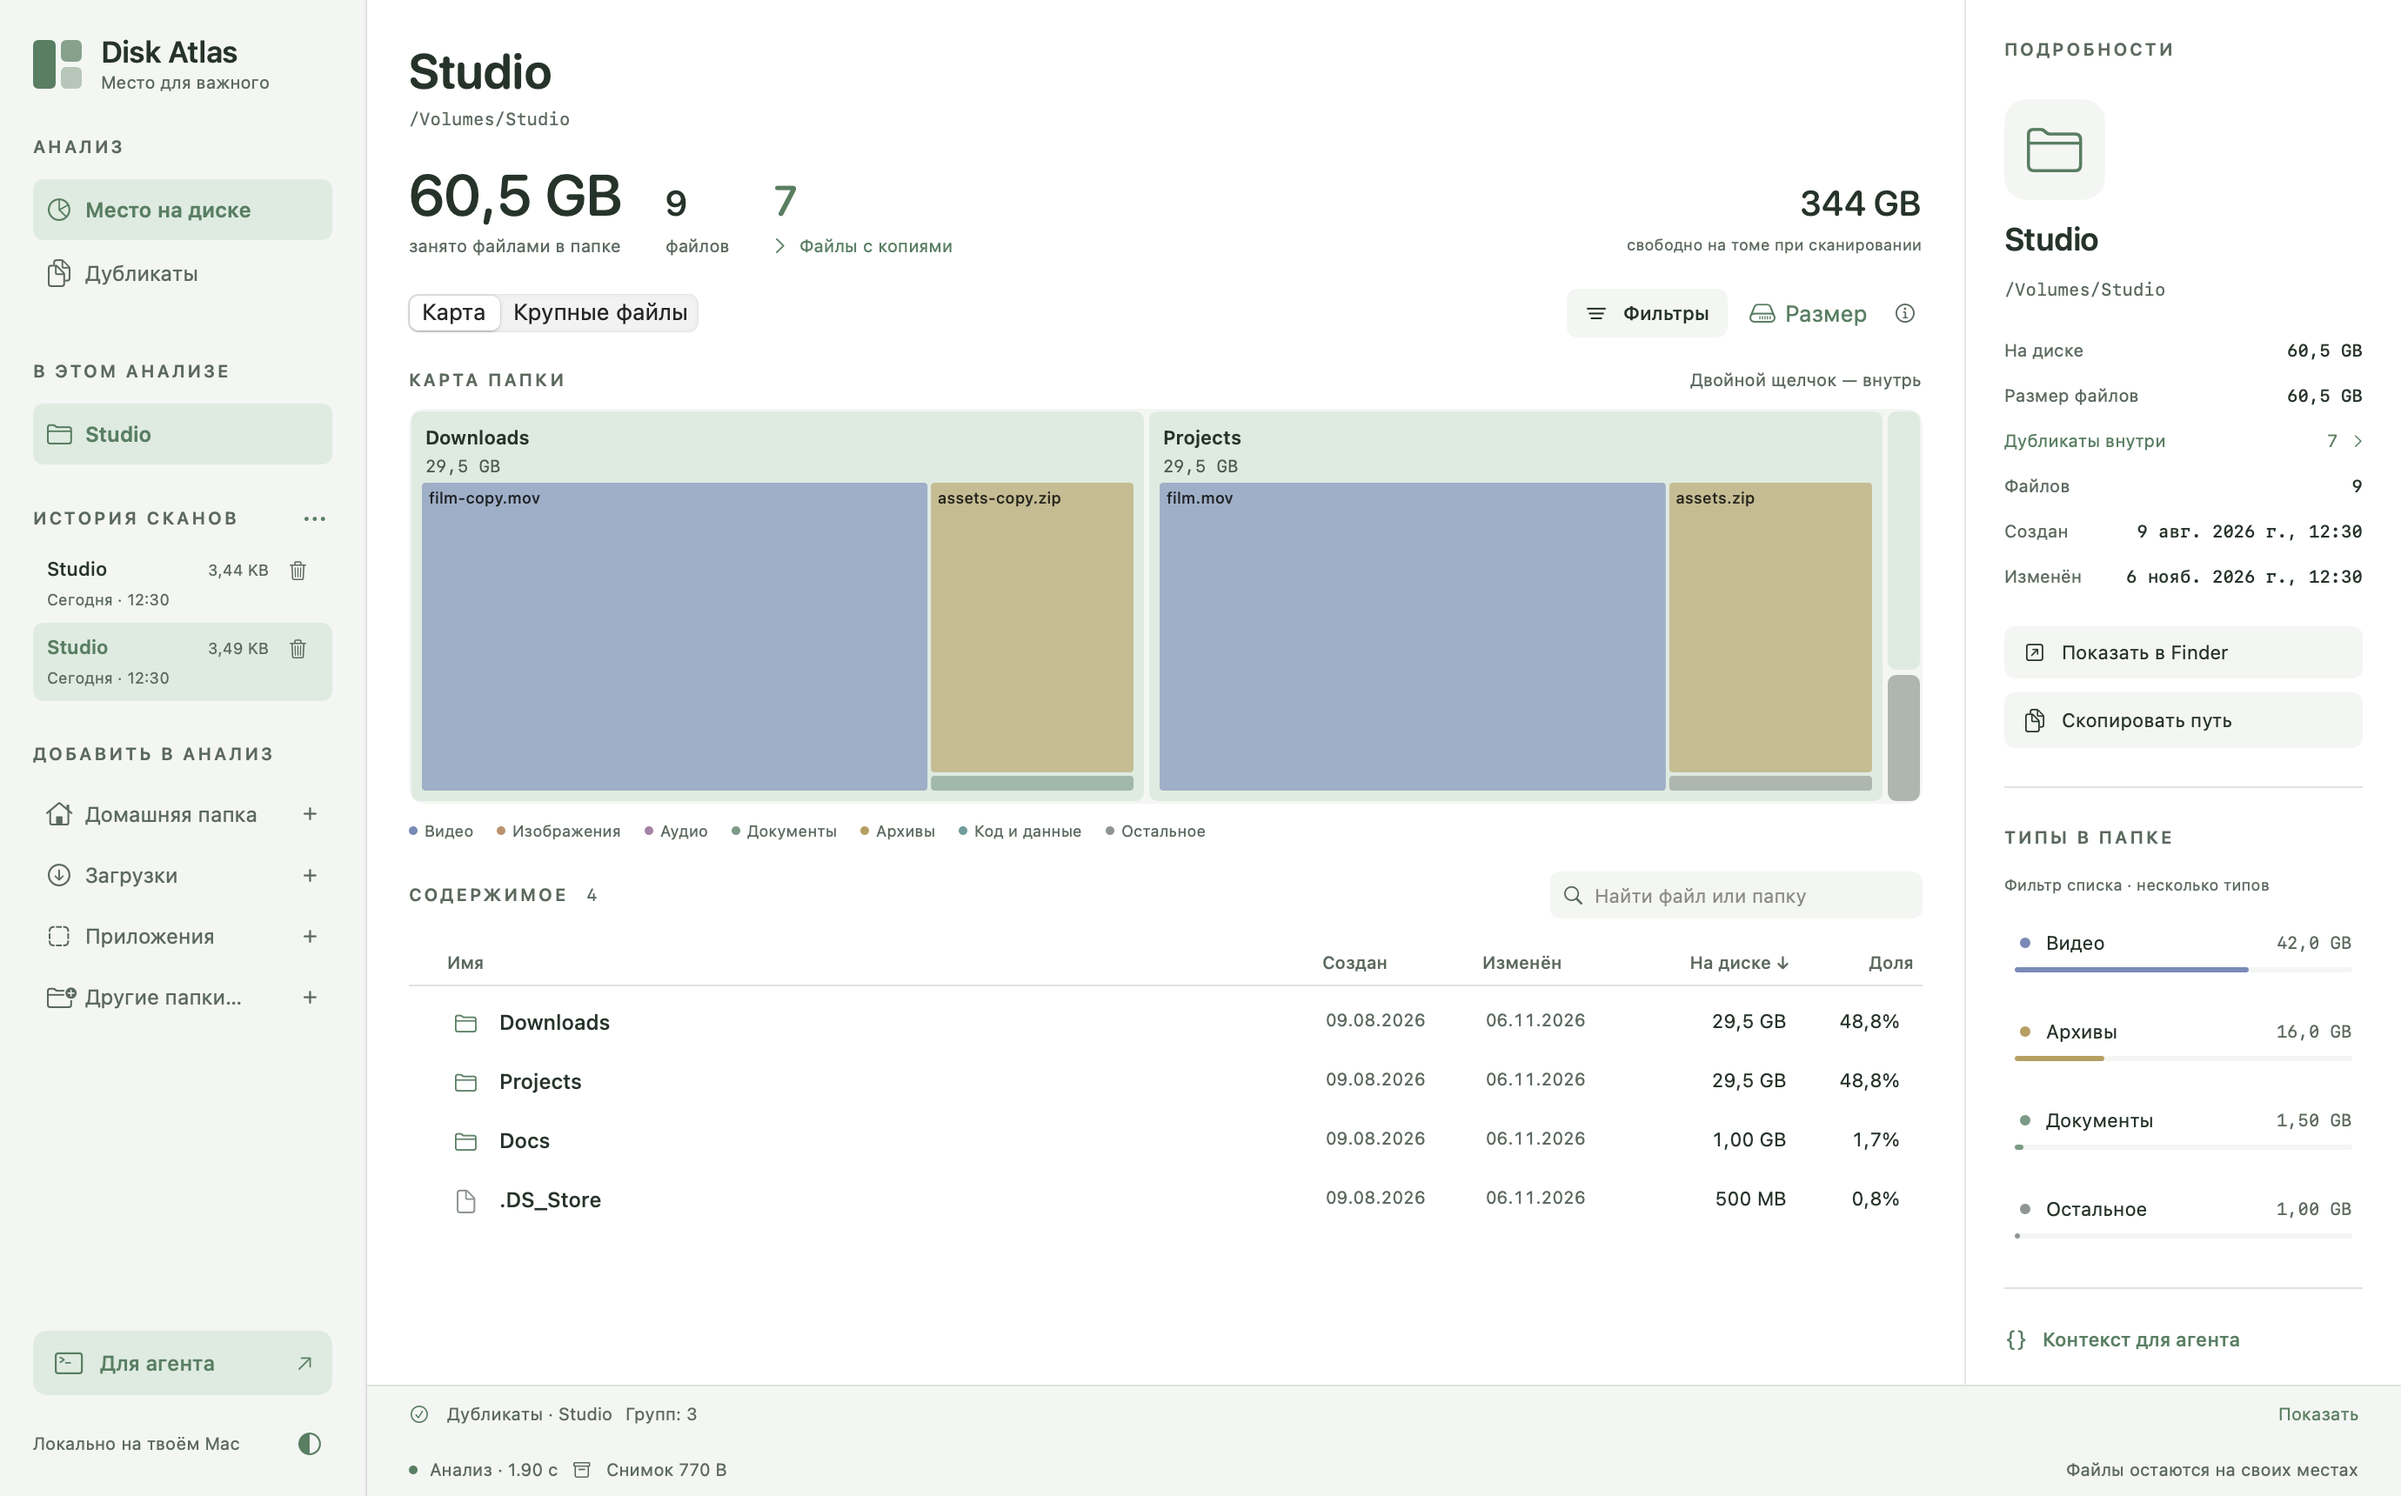
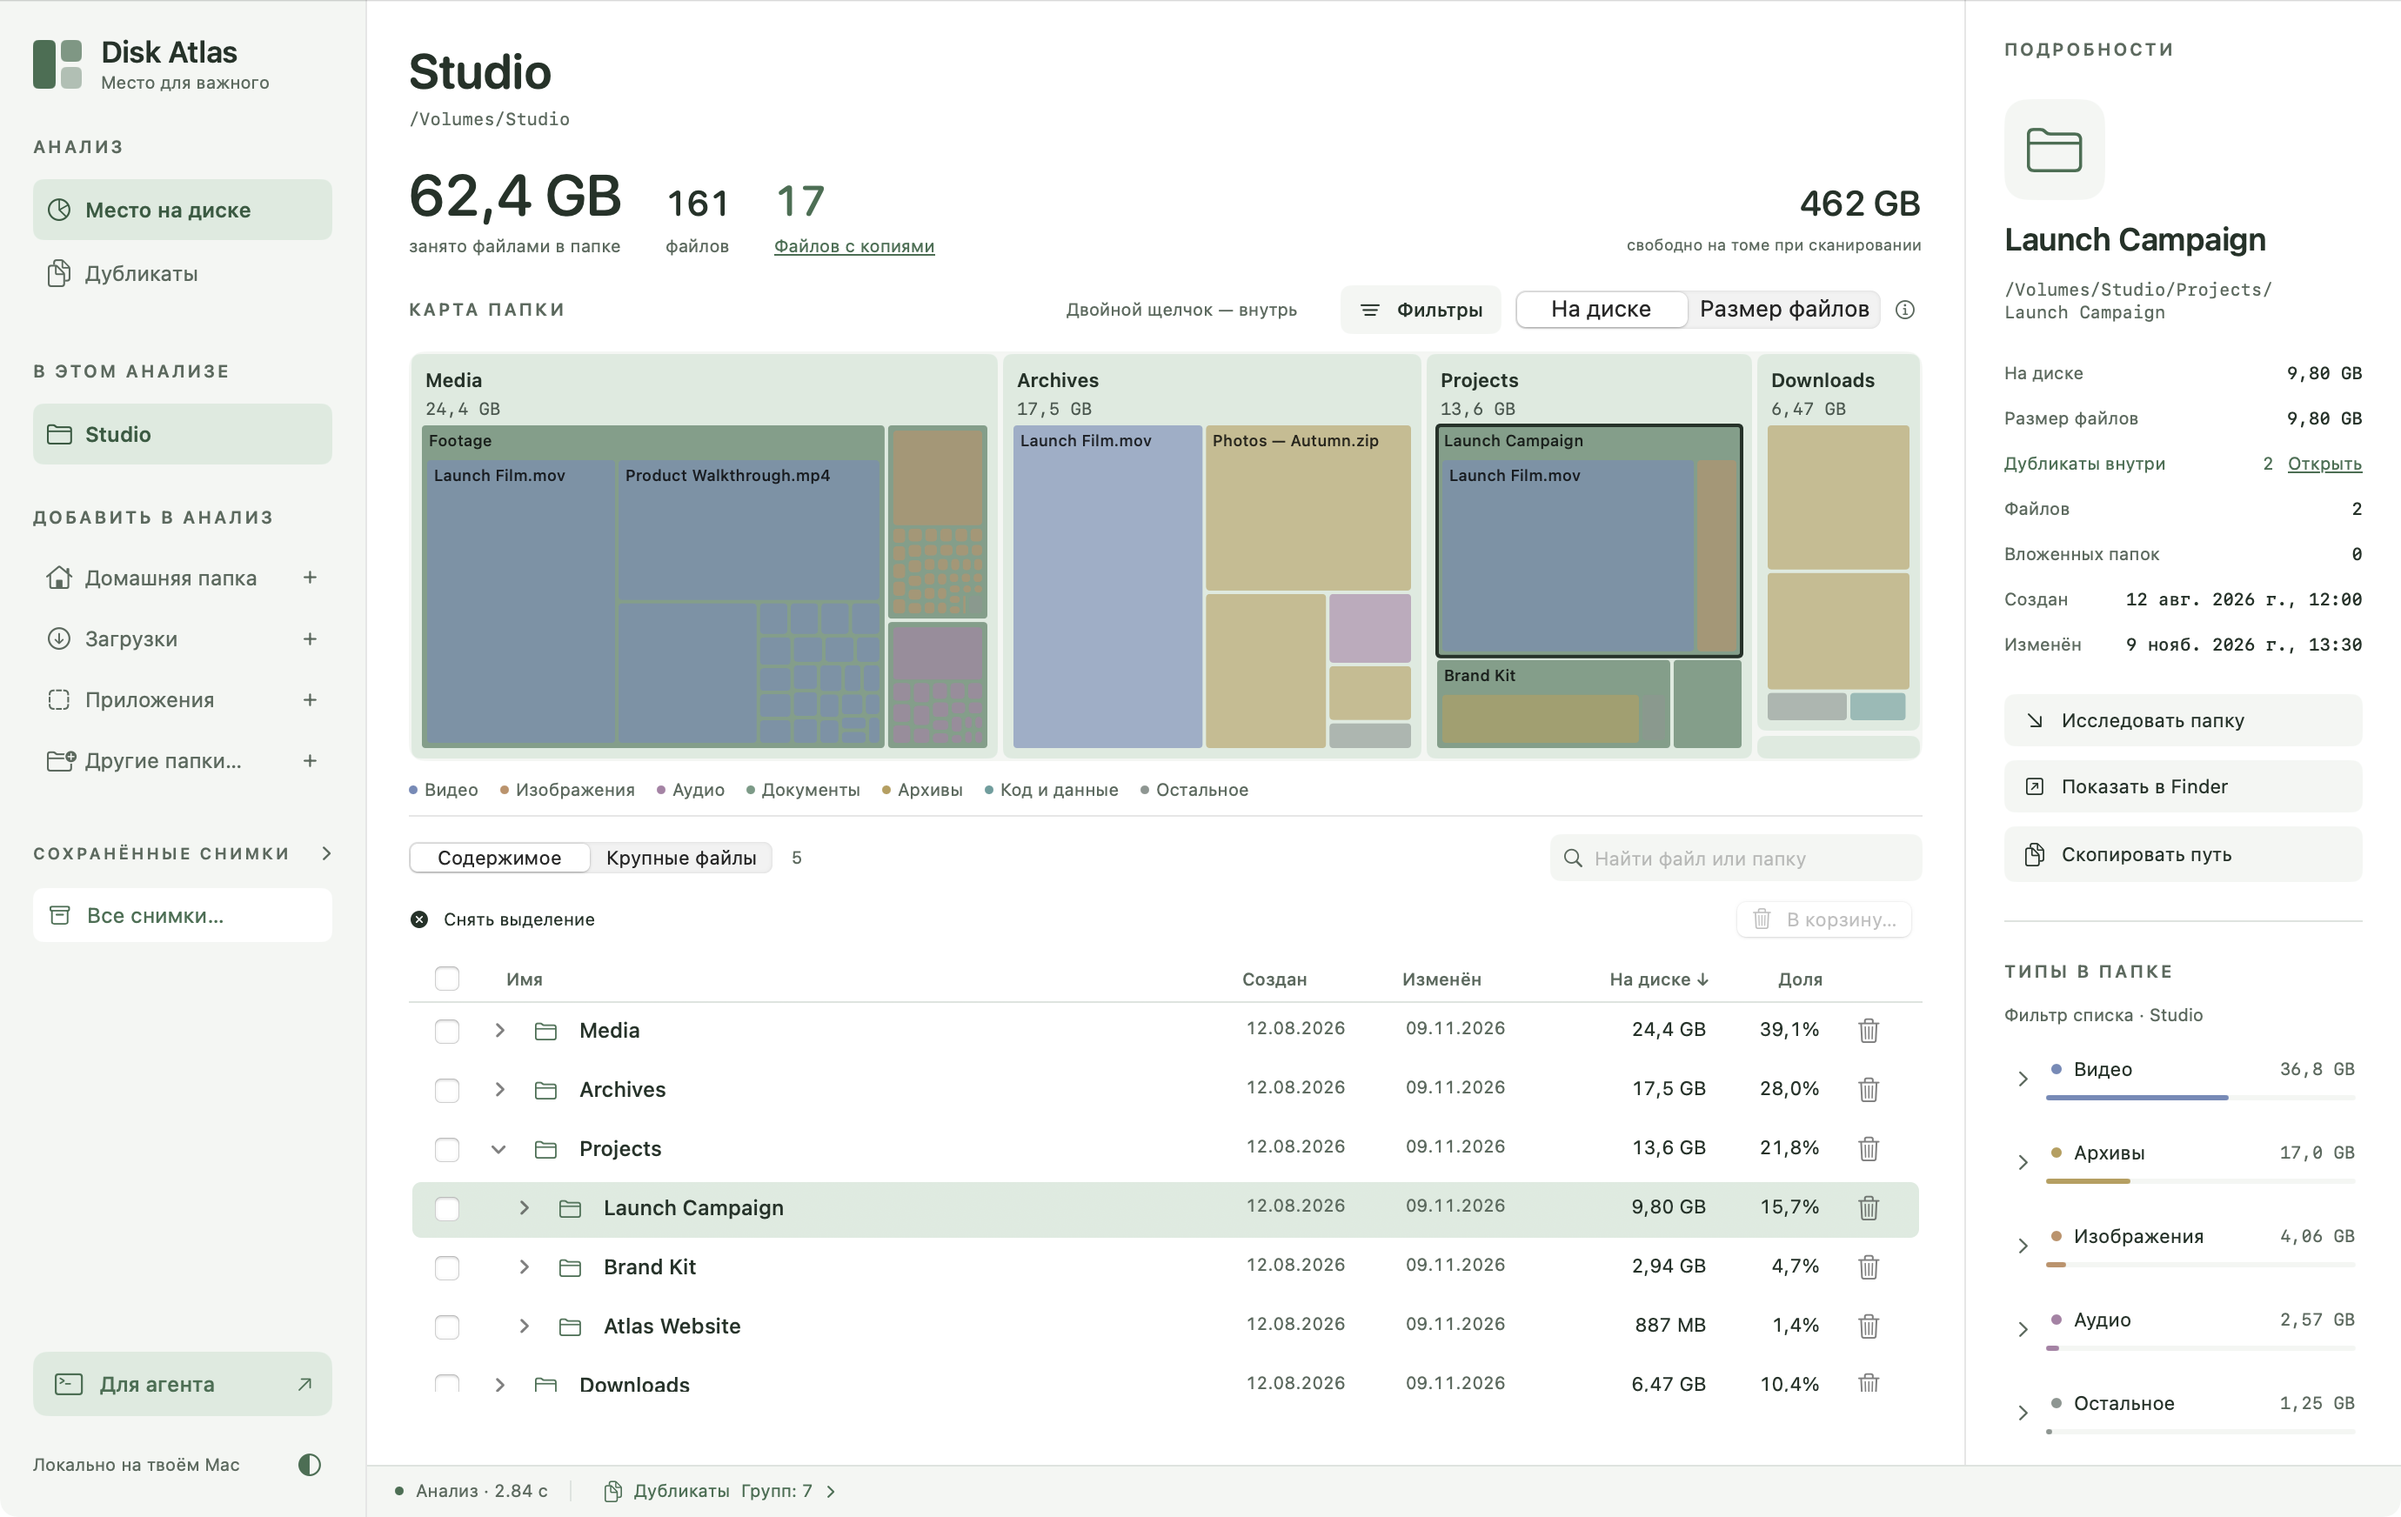
Refresh screenshots for the current Disk Atlas interface

diff --git a/README.ru.md b/README.ru.md
@@ -22,7 +22,7 @@ created: "2026-11-07"
 локальная история и перенос в Корзину с проверкой списка. Это самостоятельный
 проект, а не официальный порт WinDirStat.
 
-![Disk Atlas в светлой теме: карта пространства, компактная история и даты файлов](docs/images/workspace-light-ru.png)
+![Disk Atlas в светлой теме: карта папки, раскрываемое дерево файлов и сведения о выбранной папке](docs/images/workspace-light-ru.png)
 
 *Интерфейс показан на вымышленных данных. Твои файлы остаются на Mac.*
 
@@ -74,6 +74,7 @@ Maksim Popkov (59Z5886M52)**, нотарифицированы Apple; билет
 shasum -a 256 -c SHA256SUMS.txt
 ```
 
+![Стартовый экран: ёмкость диска, выбор папок и последние сохранённые снимки](docs/images/start-ru.png)
 
 ## Спокойный, понятный сценарий
 
@@ -186,7 +187,7 @@ shasum -a 256 -c SHA256SUMS.txt
 параметров сохраняет готовый отчёт. Он открывается вместе с историей, фильтры
 его не заменяют. Подчёркнутая метрика **«Файлов с копиями»** в обзоре открывает дубликаты.
 
-![Компактные группы дубликатов с расположением, числом копий и раскрытием файлов](docs/images/duplicates-ru.png)
+![Группы дубликатов с раскрытыми копиями, явным выбором и общим объёмом выбранного](docs/images/duplicates-ru.png)
 
 Разные размеры не сравниваются. Сначала проверяются первые и последние 64 КиБ.
 Если осталось ровно два больших файла, они сразу сравниваются побайтно, без
@@ -273,6 +274,8 @@ disk-atlas history inspect latest --files --limit 20 --json
 Нажатие на весь заголовок раскрывает или сворачивает список. В окне снимков
 клик по строке только выделяет её; кнопка «Открыть» восстанавливает снимок
 без повторного сканирования.
+
+<img src="docs/images/history-ru.png" width="760" alt="Сохранённые снимки с отдельным весом снимка и отчёта о дубликатах">
 
 История хранится в `~/Library/Application Support/Disk Atlas/History`, сжатая LZFSE; отчёты дубликатов — отдельные JSON с метаданными.
 Каталог имеет права 0700, файлы — 0600. Автоматического удаления старой истории пока

diff --git a/README.md b/README.md
@@ -22,7 +22,7 @@ If you use WinDirStat on Windows or are exploring alternatives to [DaisyDisk](ht
 local scan history and explicit, reviewed Move to Trash actions. It is an
 independent project, not an official WinDirStat port.
 
-![Disk Atlas in dark mode, showing a storage map, compact scan history and file dates](docs/images/workspace-dark.png)
+![Disk Atlas in dark mode: folder map, expandable file tree and selected-folder details](docs/images/workspace-dark.png)
 
 *Native interface preview with illustrative data. Your files stay on your Mac.*
 
@@ -75,7 +75,7 @@ Optional integrity check, with both downloaded artifacts beside the checksum fil
 shasum -a 256 -c SHA256SUMS.txt
 ```
 
-![Folder selection with visible recent scans and snapshot sizes](docs/images/start-en.png)
+![Start screen with disk capacity, folder selection and recent saved snapshots](docs/images/start-en.png)
 
 ## A quiet, deliberate workflow
 
@@ -181,7 +181,7 @@ review an estimate, then explicitly start content comparison. Cancelling its
 options leaves the saved report intact. Reports reopen with history; filters do
 not replace them. The overview’s underlined **Files with copies** metric opens duplicates.
 
-![Compact duplicate groups with locations, copy counts and expandable files](docs/images/duplicates-en.png)
+![Duplicate groups with expanded copies, explicit selection and its total size](docs/images/duplicates-en.png)
 
 Different sizes are never compared. The checker samples the first and last 64 KiB.
 For exactly two surviving large files it goes straight to byte comparison,
@@ -265,6 +265,8 @@ In the sidebar, Add to scan comes first; Saved snapshots starts collapsed, with 
 explicit All snapshots button. Expanding it shows snapshot weights and delete
 buttons. The whole section heading toggles the list. In the snapshots window,
 a row click only selects it; use Open to restore it without scanning again.
+
+<img src="docs/images/history-en.png" width="760" alt="Saved snapshots with separate snapshot and duplicate-report sizes">
 
 History is stored in `~/Library/Application Support/Disk Atlas/History`, compressed
 with LZFSE; duplicate reports are separate JSON metadata files. The directory uses mode 0700 and files use 0600. Old history is not

diff --git a/docs/images/README.md b/docs/images/README.md
@@ -1,0 +1,28 @@
+---
+type: Screenshot Notes
+description: Provenance and scope of the public Disk Atlas interface screenshots.
+created: "2026-11-10"
+---
+# Interface screenshots
+
+Refreshed on November 10, 2026 from the **0.15.2 (34)** interface,
+source revision `f3728326d9a448c3e571705f6fc82f1985da9c40`.
+
+The images show the app's native views with fabricated metadata rooted at
+`/Volumes/Studio`. Folder names, file paths, capacities, sizes, dates and durations
+are illustrative, not measurements of a user's disk or performance benchmarks.
+No real scan history, personal paths or file contents are included.
+
+| Images | What they show |
+| --- | --- |
+| `workspace-dark.png`, `workspace-light-ru.png` | Map selection, expanded folder tree and inspector |
+| `start-en.png`, `start-ru.png` | Disk capacity, folder selection and recent saved snapshots |
+| `duplicates-en.png`, `duplicates-ru.png` | Expanded copies, explicit checkboxes and selected byte total |
+| `history-en.png`, `history-ru.png` | Snapshot and duplicate-report storage sizes |
+| `trash-review-en.png`, `trash-review-ru.png` | Full-path review and the remaining copy |
+
+English images use the dark theme; Russian images use the light theme.
+Screenshots capture only the relevant app content, excluding system title bars
+and capture indicators. No cleanup action was executed to produce them.
+The demonstration data and temporary rendering app are not distributed with
+Disk Atlas and are not part of the repository.
